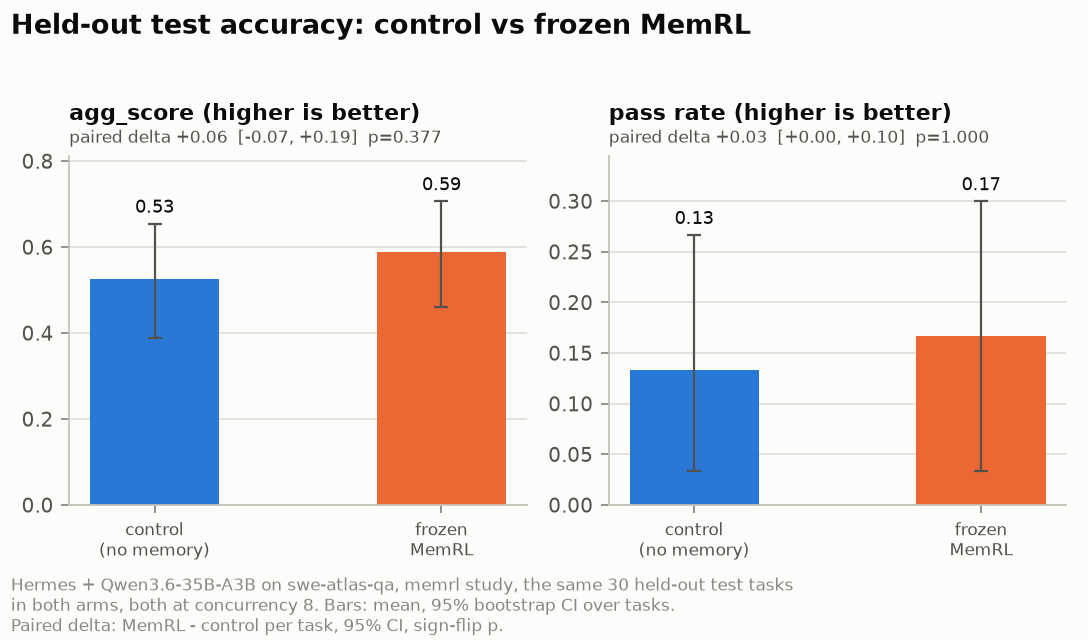
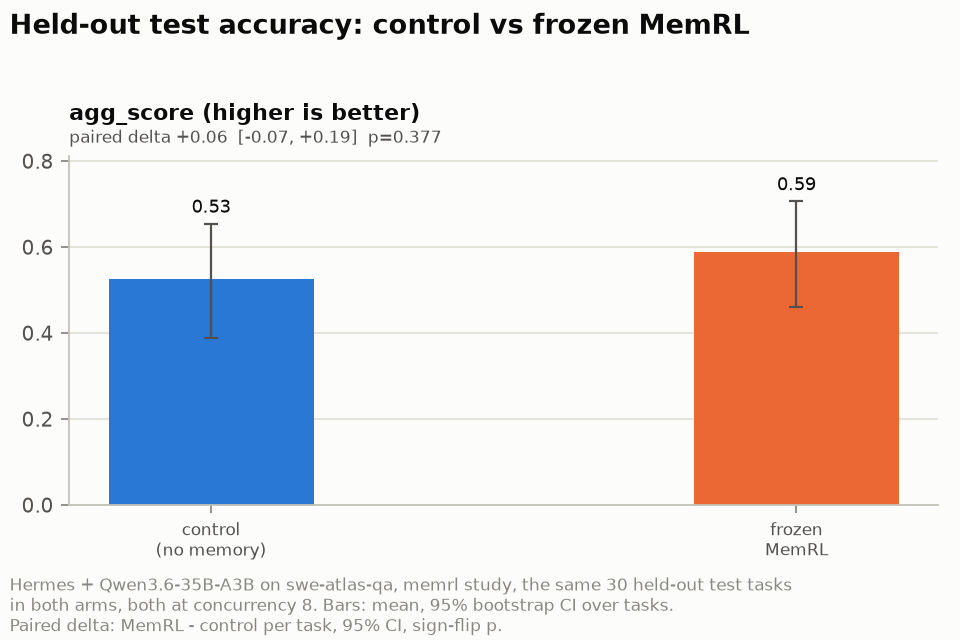
scripts: test-only MemRL accuracy chart shows agg_score alone

diff --git a/scripts/plot_memrl_study.py b/scripts/plot_memrl_study.py
@@ -14,8 +14,9 @@ Writes to scripts/out_memrl/:
   efficiency.png     tool calls, API calls, prompt/output tokens, wall time,
                      iteration-cap share per condition, mean and 95% CI
   accuracy_test.png, efficiency_test.png
-                     the same, for the held-out test split only (control vs
-                     frozen MemRL), each panel with its paired delta and p
+                     the held-out test split only (control vs frozen MemRL):
+                     agg_score, and the efficiency metrics, each panel with
+                     its paired delta and p
   paired_deltas.png  per-task paired MemRL - control deltas with 95% CI
   training.png       agg_score and recall by window of 15 training tasks
 """
@@ -103,7 +104,7 @@ def condition_bars(ax, groups, conditions, key, scale, rng, decimals):
              for _, s, a, e in conditions]
     means = [m * scale for m, _, _ in stats]
     colors = [CONTROL if a == "control" else MEMRL for _, _, a, _ in conditions]
-    ax.bar(xs, means, width=0.55 if len(conditions) > 2 else 0.45, color=colors, zorder=2)
+    ax.bar(xs, means, width=0.55 if len(conditions) > 2 else 0.35, color=colors, zorder=2)
     ax.errorbar(xs, means, yerr=[[(m - lo) * scale for m, lo, _ in stats], [(hi - m) * scale for m, _, hi in stats]],
                 fmt="none", ecolor=INK_2, elinewidth=1, capsize=3, zorder=3)
     for x, (m, _, hi) in zip(xs, stats):
@@ -129,7 +130,7 @@ def plot_conditions(groups, conditions, metrics, title, ncols, path, note, rng, 
     also names the paired per-task delta of the second minus the first."""
     nrows = -(-len(metrics) // ncols)
     width = 5.2 if len(conditions) > 2 else 3.4
-    fig, axes = plt.subplots(nrows, ncols, figsize=(width * ncols, 3.4 * nrows + 0.6), squeeze=False)
+    fig, axes = plt.subplots(nrows, ncols, figsize=(max(width * ncols, 6), 3.4 * nrows + 0.6), squeeze=False)
     for ax, (key, label, scale) in zip(axes.flat, metrics):
         decimals = 2 if max(abs(scale * r[key]) for rs in groups.values() for r in rs) < 10 else 0
         condition_bars(ax, groups, conditions, key, scale, rng, decimals)
@@ -259,7 +260,7 @@ def main():
     test_note = (f"Hermes + Qwen3.6-35B-A3B on swe-atlas-qa, {args.study} study, the same {tasks} held-out test tasks\n"
                  "in both arms, both at concurrency 8. Bars: mean, 95% bootstrap CI over tasks.\n"
                  "Paired delta: MemRL - control per task, 95% CI, sign-flip p.")
-    plot_conditions(groups, TEST_CONDITIONS, ACCURACY, "Held-out test accuracy: control vs frozen MemRL", 2,
+    plot_conditions(groups, TEST_CONDITIONS, ACCURACY[:1], "Held-out test accuracy: control vs frozen MemRL", 1,
                     args.out / "accuracy_test.png", test_note, random.Random(args.seed), random.Random(args.seed))
     plot_conditions(groups, TEST_CONDITIONS, EFFICIENCY,
                     "Held-out test efficiency: control vs frozen MemRL (lower is better)", 3,
